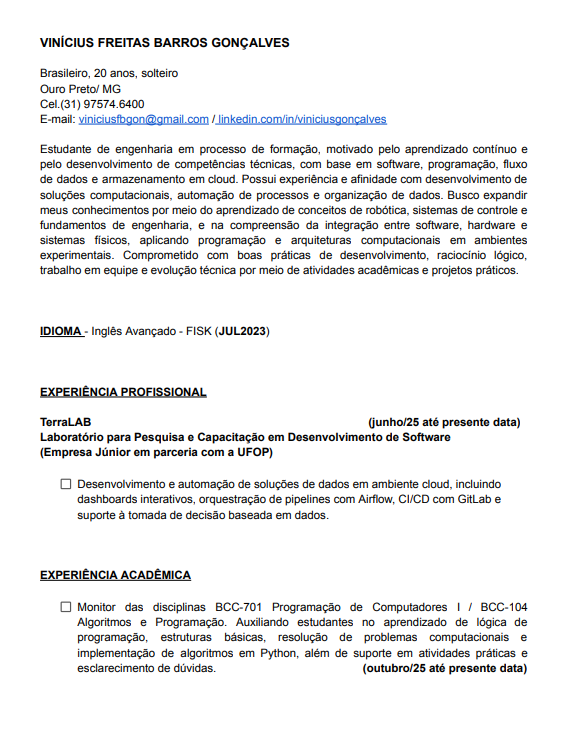
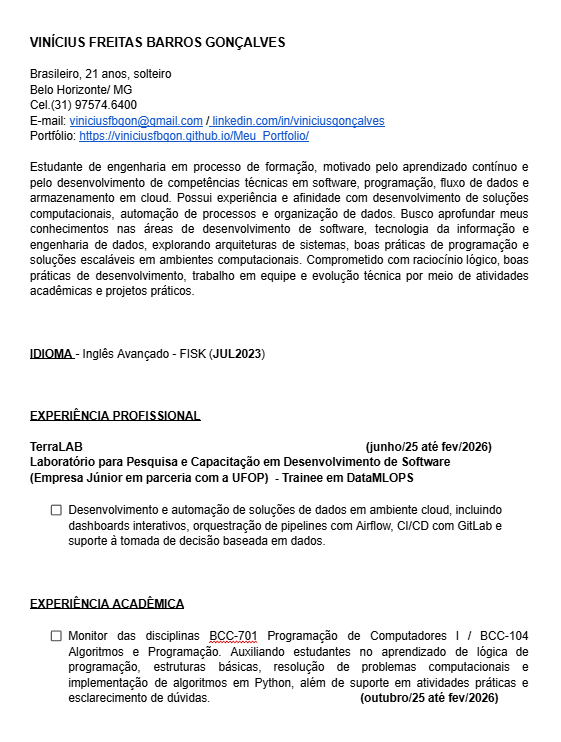
Alterando foto, UFOP -> UFMG, Texto sobre mim

diff --git a/index.html b/index.html
@@ -37,7 +37,7 @@
                     <div class="intro-title reveal">
                         <h1>Olá, eu sou Vinícius Freitas</h1>
                         <h2>Estudante de Engenharia de Controle e Automação</h2>
-                        <h2>& Trainee em DataMLOps</h2>
+                        <h2>UFMG</h2>
                     </div>
                     <div class="intro-button reveal">
                         <button class="btn-contato">Contate-me</button>
@@ -52,7 +52,7 @@
                     </div>
                 </div>
             </div>
-            <img src="images/eu.jpg" alt="Foto de perfil" class="profile-pic" id="profilePic">
+            <img src="images/eu.jpeg" alt="Foto de perfil" class="profile-pic" id="profilePic">
         </section>
     </main>
 
@@ -66,7 +66,7 @@
 
             <div class="sobre-lado-direito">
                 <div class="sobre-texto">
-                    <h3 id="titulo-sobre">Sobre mim,</h3>
+                    <h3 id="titulo-sobre">Perfil profissional</h3>
                     <p>
                 Sou um profissional motivado e em constante evolução, com interesse em me especializar nas áreas de Dados, Machine Learning, Cloud e DevOps. Tenho afinidade com novas tecnologias e metodologias ágeis, buscando sempre aprimorar minhas habilidades técnicas para desenvolver soluções escaláveis, inteligentes e automatizadas.
                 </p> <br>
@@ -83,7 +83,7 @@
         <h2 id="titulo-skills" style="display:none;">Skills</h2>
         <div class="skills-buttons">
             <div class="button-wrapper">
-                <button class="skills-tab-button active" data-tab="soft-skills">Soft Skills</button>
+                <button class="skills-tab-button active" data-tab="soft-skills">Sobre mim</button>
             </div>
             <div class="button-wrapper">
                 <button class="skills-tab-button" data-tab="hard-skills">Currículo</button>
@@ -94,8 +94,8 @@
             <div class="content active" id="soft-skills-content" role="tabpanel">
                 <div class="soft-skills-text">
                         <p>Acredito que o desenvolvimento profissional vai muito além das habilidades técnicas. Por isso, valorizo a inteligência emocional, a empatia, o trabalho em equipe, a capacidade de resolver problemas com perspicácia e uma comunicação eficaz.</p>
-                       <p>Atualmente, curso Engenharia de Controle e Automação na Universidade Federal de Ouro Preto e atuo como trainee na área de DataMLOps no TerraLAB – Laboratório para Pesquisa e Capacitação em Desenvolvimento de Software. Com foco e resiliência, venho construindo minha trajetória acadêmica e profissional, sempre buscando aplicar e aprimorar essas competências no dia a dia, seja nas atividades acadêmicas, em projetos extracurriculares ou na convivência na república onde moro.</p>
-                       <p>Desde os 19 anos, quando me mudei para Ouro Preto, venho enfrentando desafios que me proporcionam constante aprendizado. Essa experiência tem fortalecido minhas habilidades interpessoais, minha capacidade de adaptação e meu amadurecimento, qualidades que considero essenciais para atuar com excelência em qualquer ambiente profissional.</p>                </div>
+                        <p>Atualmente, curso Engenharia de Controle e Automação na Universidade Federal de Minas Gerais (UFMG). Iniciei minha trajetória na Universidade Federal de Ouro Preto (UFOP), onde construí uma base importante na minha carreira acadêmica, lugar em que atuei no TerraLAB – Laboratório para Pesquisa e Capacitação em Desenvolvimento de Software, com experiência como trainee na área de DataMLOps, e além disso, como monitor de Programação de Computadores I, sempre buscando evoluir tecnicamente e aplicar meus conhecimentos na prática.</p>
+                        <p>Ao longo dessa trajetória, venho enfrentando desafios que me proporcionam constante aprendizado. Essas experiências fortalecem minhas habilidades interpessoais, minha capacidade de adaptação e meu amadurecimento, qualidades que considero essenciais para atuar com excelência em qualquer ambiente profissional.</p>                </div>
             </div>
 
             <div class="content" id="hard-skills-content" role="tabpanel">
@@ -223,7 +223,7 @@
             </div>
             <div class="contact-item">
                 <div class="icon-box"><img src="images/location.png" alt="Ícone de localização"></div>
-                <span style="color: #ddd;">Ouro Preto–MG</span>
+                <span style="color: #ddd;">Belo Horizonte-MG</span>
             </div>
         </div>
 
